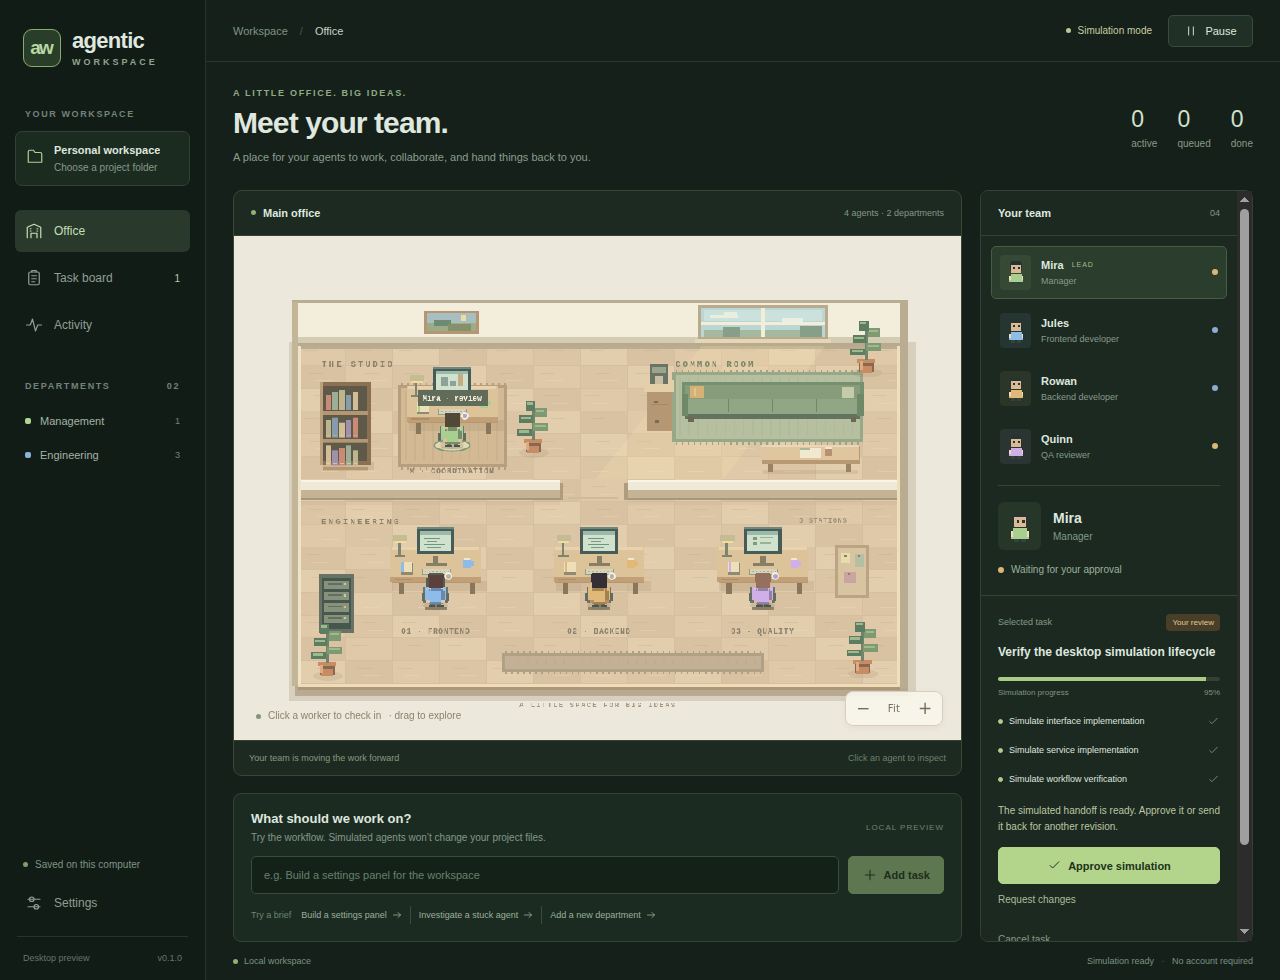
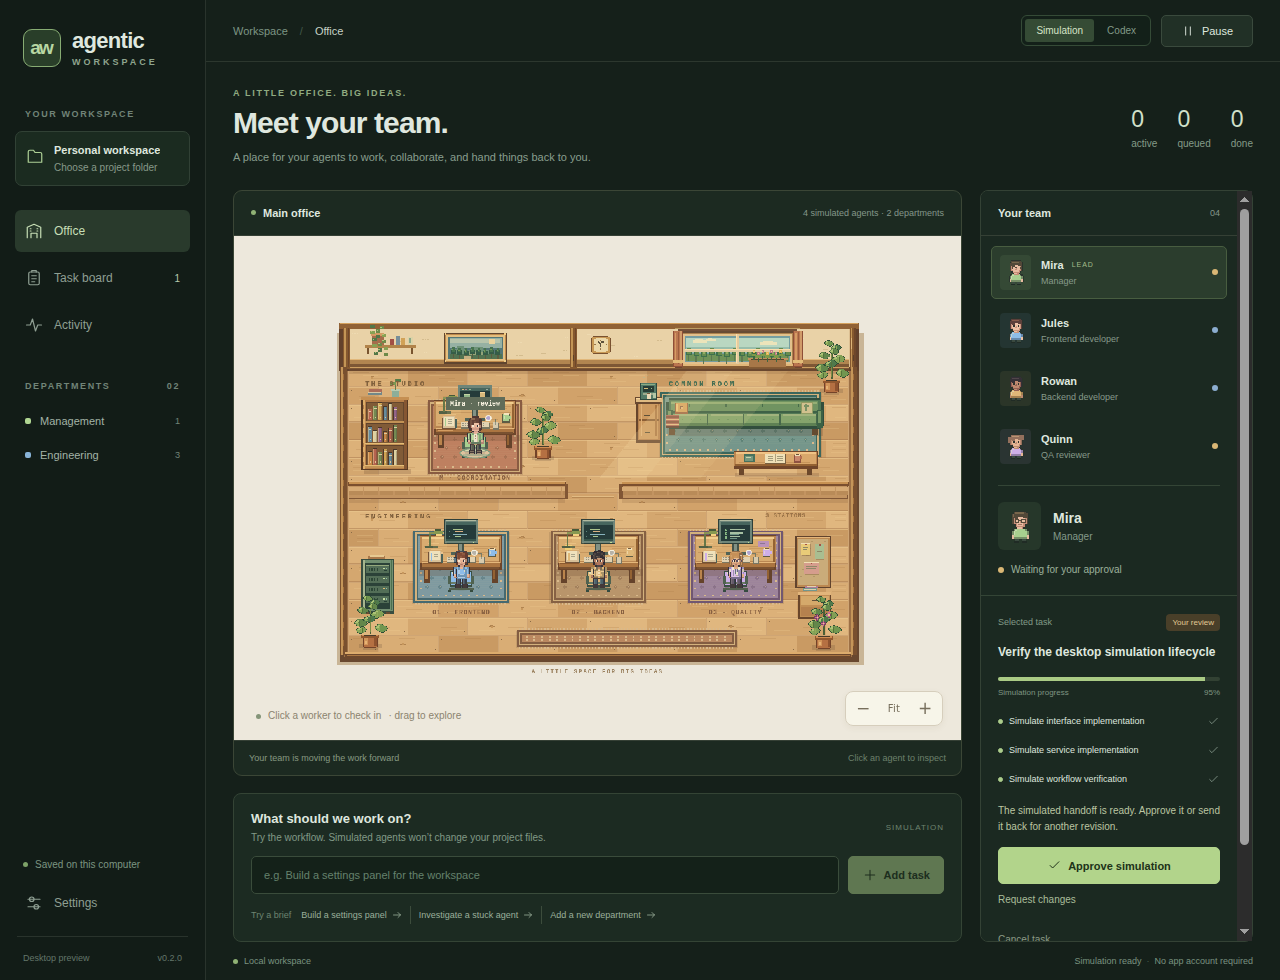
Capture refined desktop preview from passing Linux smoke check

diff --git a/README.md b/README.md
@@ -65,6 +65,8 @@ npm run smoke
 
 `check` runs TypeScript, simulation, persistence, protocol-fixture, real-Git isolation, and live-runtime lifecycle checks, followed by the production build. These automated tests never spend model usage. `smoke` boots the desktop app and checks its renderer, pixel canvas, IPC bridge, disconnected Codex controls, simulation pause, review, rework, and cancellation. Run `npm run build` first if using `smoke` separately. Linux environments without a display can use `xvfb-run -a npm run smoke`; the CI workflow demonstrates this setup.
 
+The v0.2 implementation passes 67 tests, TypeScript, the production build, and the Linux desktop smoke check. The preview above was captured from that Electron window.
+
 ## Package
 
 ```sh
